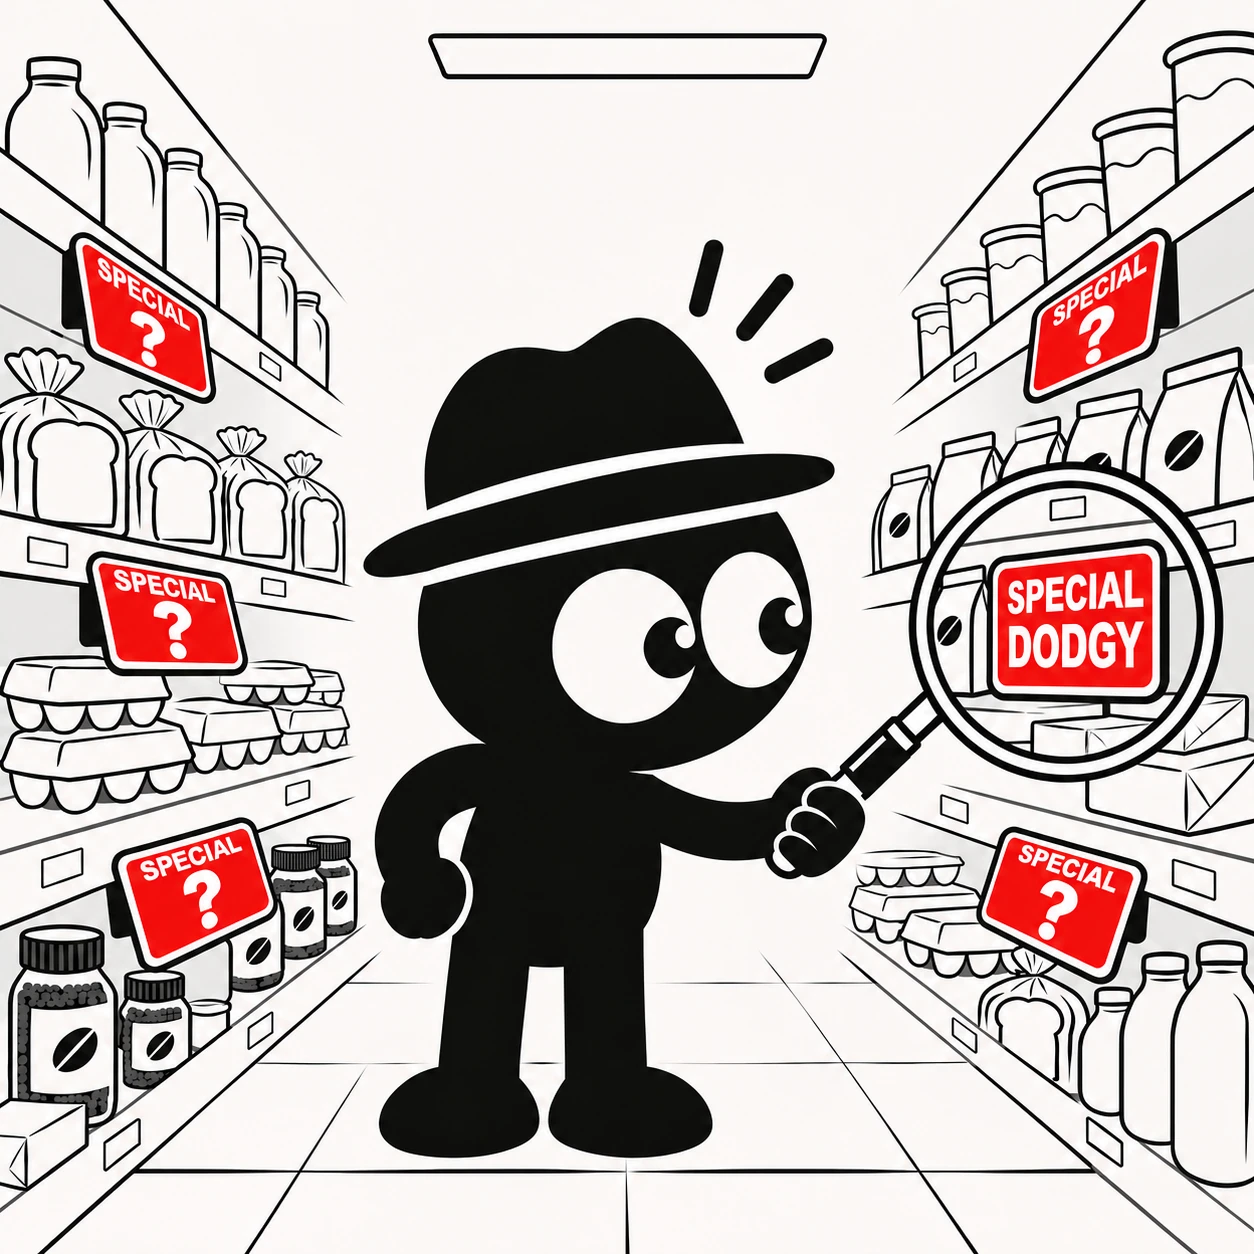
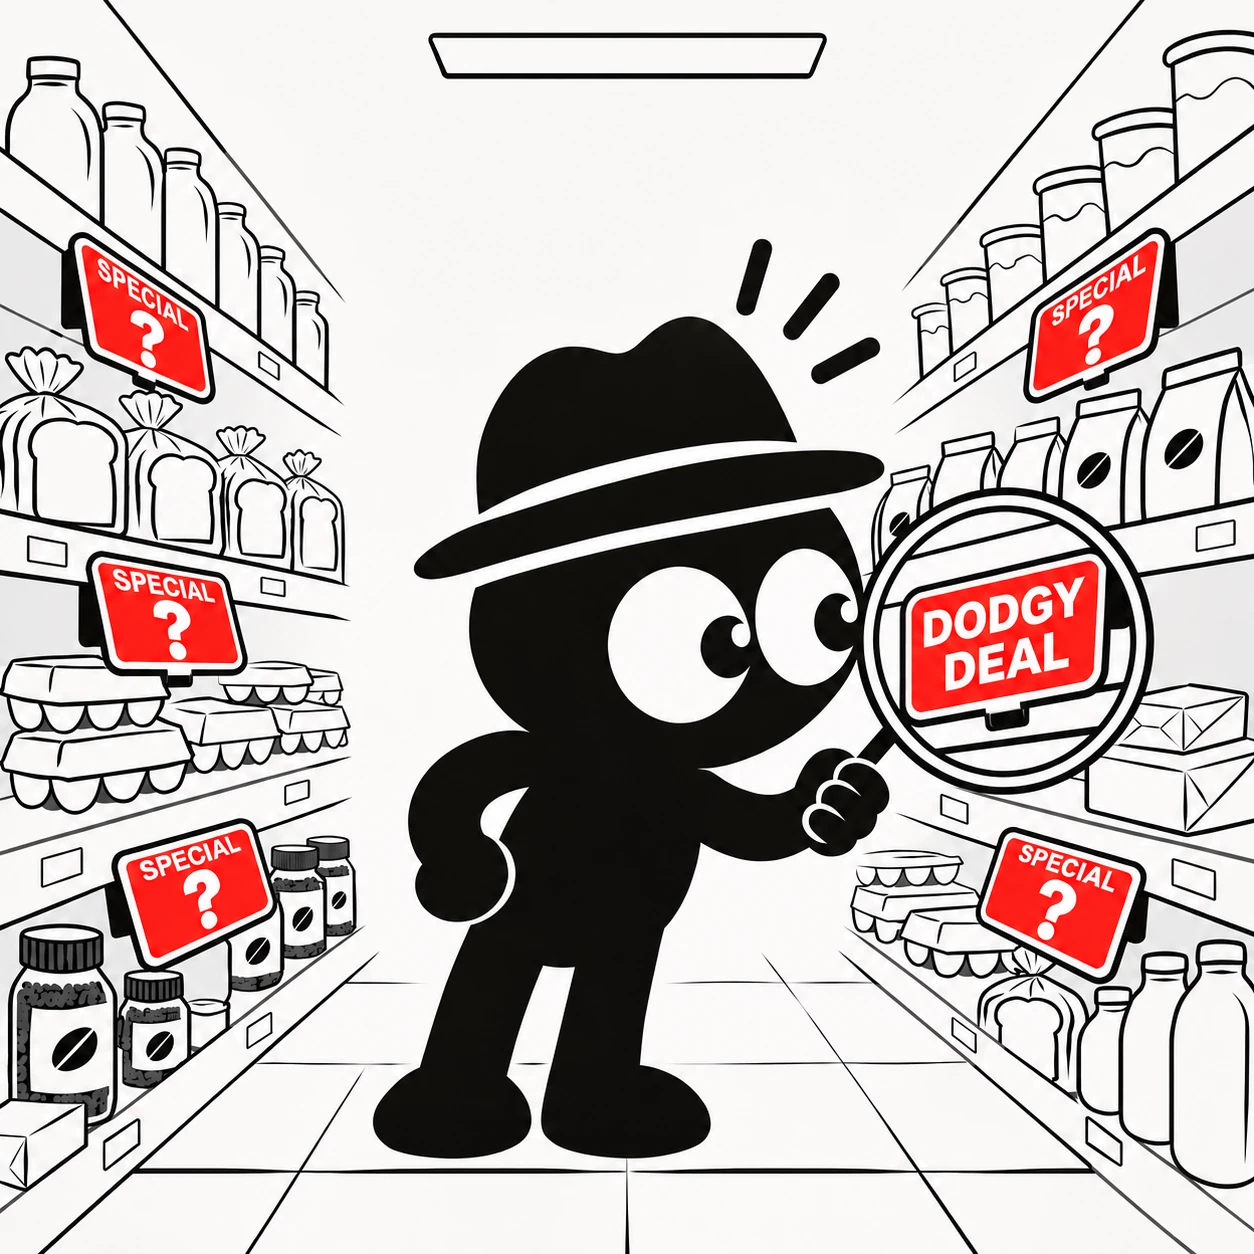
Animate onboarding mascot exclamation marks

diff --git a/apps/mobile/src/components/FirstInstallOnboarding.tsx b/apps/mobile/src/components/FirstInstallOnboarding.tsx
@@ -51,9 +51,9 @@ export default function FirstInstallOnboarding({
       aria-labelledby="first-install-title"
       aria-describedby="first-install-description"
     >
-      <div className="flex h-full max-h-[100dvh] w-full max-w-[480px] flex-col px-5" style={{ paddingTop: "max(1rem, env(safe-area-inset-top))" }}>
-        <div className="flex min-h-0 flex-1 flex-col items-center justify-center overflow-y-auto py-3">
-          <div className="relative -mx-5 aspect-square w-[calc(100%+2.5rem)] max-w-[480px] shrink-0 overflow-hidden">
+      <div className="flex h-full max-h-[100dvh] w-full flex-col">
+        <div className="flex min-h-0 flex-1 flex-col items-center overflow-y-auto">
+          <div className="relative aspect-square w-full shrink-0 overflow-hidden">
             <Image
               src={step === 1 ? "/first-install-welcome.webp" : "/first-install-inspect.webp"}
               alt={step === 1
@@ -64,9 +64,15 @@ export default function FirstInstallOnboarding({
               preload={step === 1}
               className="object-cover"
             />
+            <div className="first-install-exclamation-layer" aria-hidden="true">
+              <span className="first-install-exclamation-mask" />
+              <span className="first-install-exclamation first-install-exclamation--one" />
+              <span className="first-install-exclamation first-install-exclamation--two" />
+              <span className="first-install-exclamation first-install-exclamation--three" />
+            </div>
           </div>
 
-          <div className="mt-3 w-full shrink-0 text-center" aria-live="polite">
+          <div className="mt-4 w-full shrink-0 px-5 text-center" aria-live="polite">
             <AnimatePresence mode="wait" initial={false}>
               {step === 1 ? (
                 <motion.div
@@ -96,7 +102,7 @@ export default function FirstInstallOnboarding({
                     Ready to investigate?
                   </h1>
                   <p id="first-install-description" className="mt-2 dd-type-secondary text-stone-700">
-                    Start exploring, or take a quick guided tour.
+                    Start exploring current deals in NZ, or take a quick tour on how to use the app.
                   </p>
                 </motion.div>
               )}
@@ -104,7 +110,7 @@ export default function FirstInstallOnboarding({
           </div>
         </div>
 
-        <div className="flex shrink-0 flex-col gap-2 pt-3 pb-safe-sm">
+        <div className="flex shrink-0 flex-col gap-3 px-5 pt-3 pb-safe-sm">
           {step === 1 ? (
             <button type="button" onClick={() => setStep(2)} className="dd-btn dd-btn-primary min-h-12 w-full">
               Next

diff --git a/apps/mobile/src/app/globals.css b/apps/mobile/src/app/globals.css
@@ -1109,6 +1109,85 @@ html[data-theme="dark"] .theme-loader-surface {
   will-change: transform;
 }
 
+.first-install-exclamation-layer {
+  position: absolute;
+  inset: 0;
+  overflow: hidden;
+  pointer-events: none;
+}
+
+/* The source illustrations include static rays. This softly blended patch
+   hides them so the live CSS rays below are the only visible marks. */
+.first-install-exclamation-mask {
+  position: absolute;
+  z-index: 1;
+  left: 58%;
+  top: 16.5%;
+  width: 14%;
+  height: 14%;
+  border-radius: 50%;
+  background: radial-gradient(ellipse, #fbf7f4 0 74%, rgb(251 247 244 / 96%) 86%, rgb(251 247 244 / 0) 100%);
+  filter: blur(4px);
+}
+
+.first-install-exclamation {
+  position: absolute;
+  z-index: 2;
+  display: block;
+  border-radius: 999px;
+  background: #17170f;
+  opacity: 0;
+  transform: rotate(var(--spark-angle)) scale(0.65);
+  transform-origin: center;
+  animation: firstInstallExclamationFlicker 3.4s ease-in-out infinite;
+  animation-delay: var(--spark-delay, 0s);
+}
+
+.first-install-exclamation--one {
+  left: 60.7%;
+  top: 18.5%;
+  width: 1.7%;
+  height: 6.5%;
+  --spark-angle: -12deg;
+  --spark-delay: 0s;
+}
+
+.first-install-exclamation--two {
+  left: 65.4%;
+  top: 21.2%;
+  width: 1.7%;
+  height: 5.8%;
+  --spark-angle: -35deg;
+  --spark-delay: 120ms;
+}
+
+.first-install-exclamation--three {
+  left: 67.7%;
+  top: 26%;
+  width: 5.3%;
+  height: 1.7%;
+  --spark-angle: -30deg;
+  --spark-delay: 240ms;
+}
+
+@keyframes firstInstallExclamationFlicker {
+  0%,
+  56%,
+  62%,
+  72%,
+  100% {
+    opacity: 0;
+    transform: rotate(var(--spark-angle)) scale(0.65);
+  }
+  58%,
+  60%,
+  64%,
+  69% {
+    opacity: 1;
+    transform: rotate(var(--spark-angle)) scale(1.06);
+  }
+}
+
 /* Inline mascot marks keep their gentle float separate from the eye blink,
    so the two animations do not overwrite each other's transforms. */
 .wink-mascot--search {
@@ -1209,6 +1288,12 @@ html[data-theme="dark"] .theme-loader-surface {
 }
 
 @media (prefers-reduced-motion: reduce) {
+  .first-install-exclamation {
+    animation: none;
+    opacity: 0.9;
+    transform: rotate(var(--spark-angle));
+  }
+
   .animate-mascot-turn {
     animation: none;
   }
